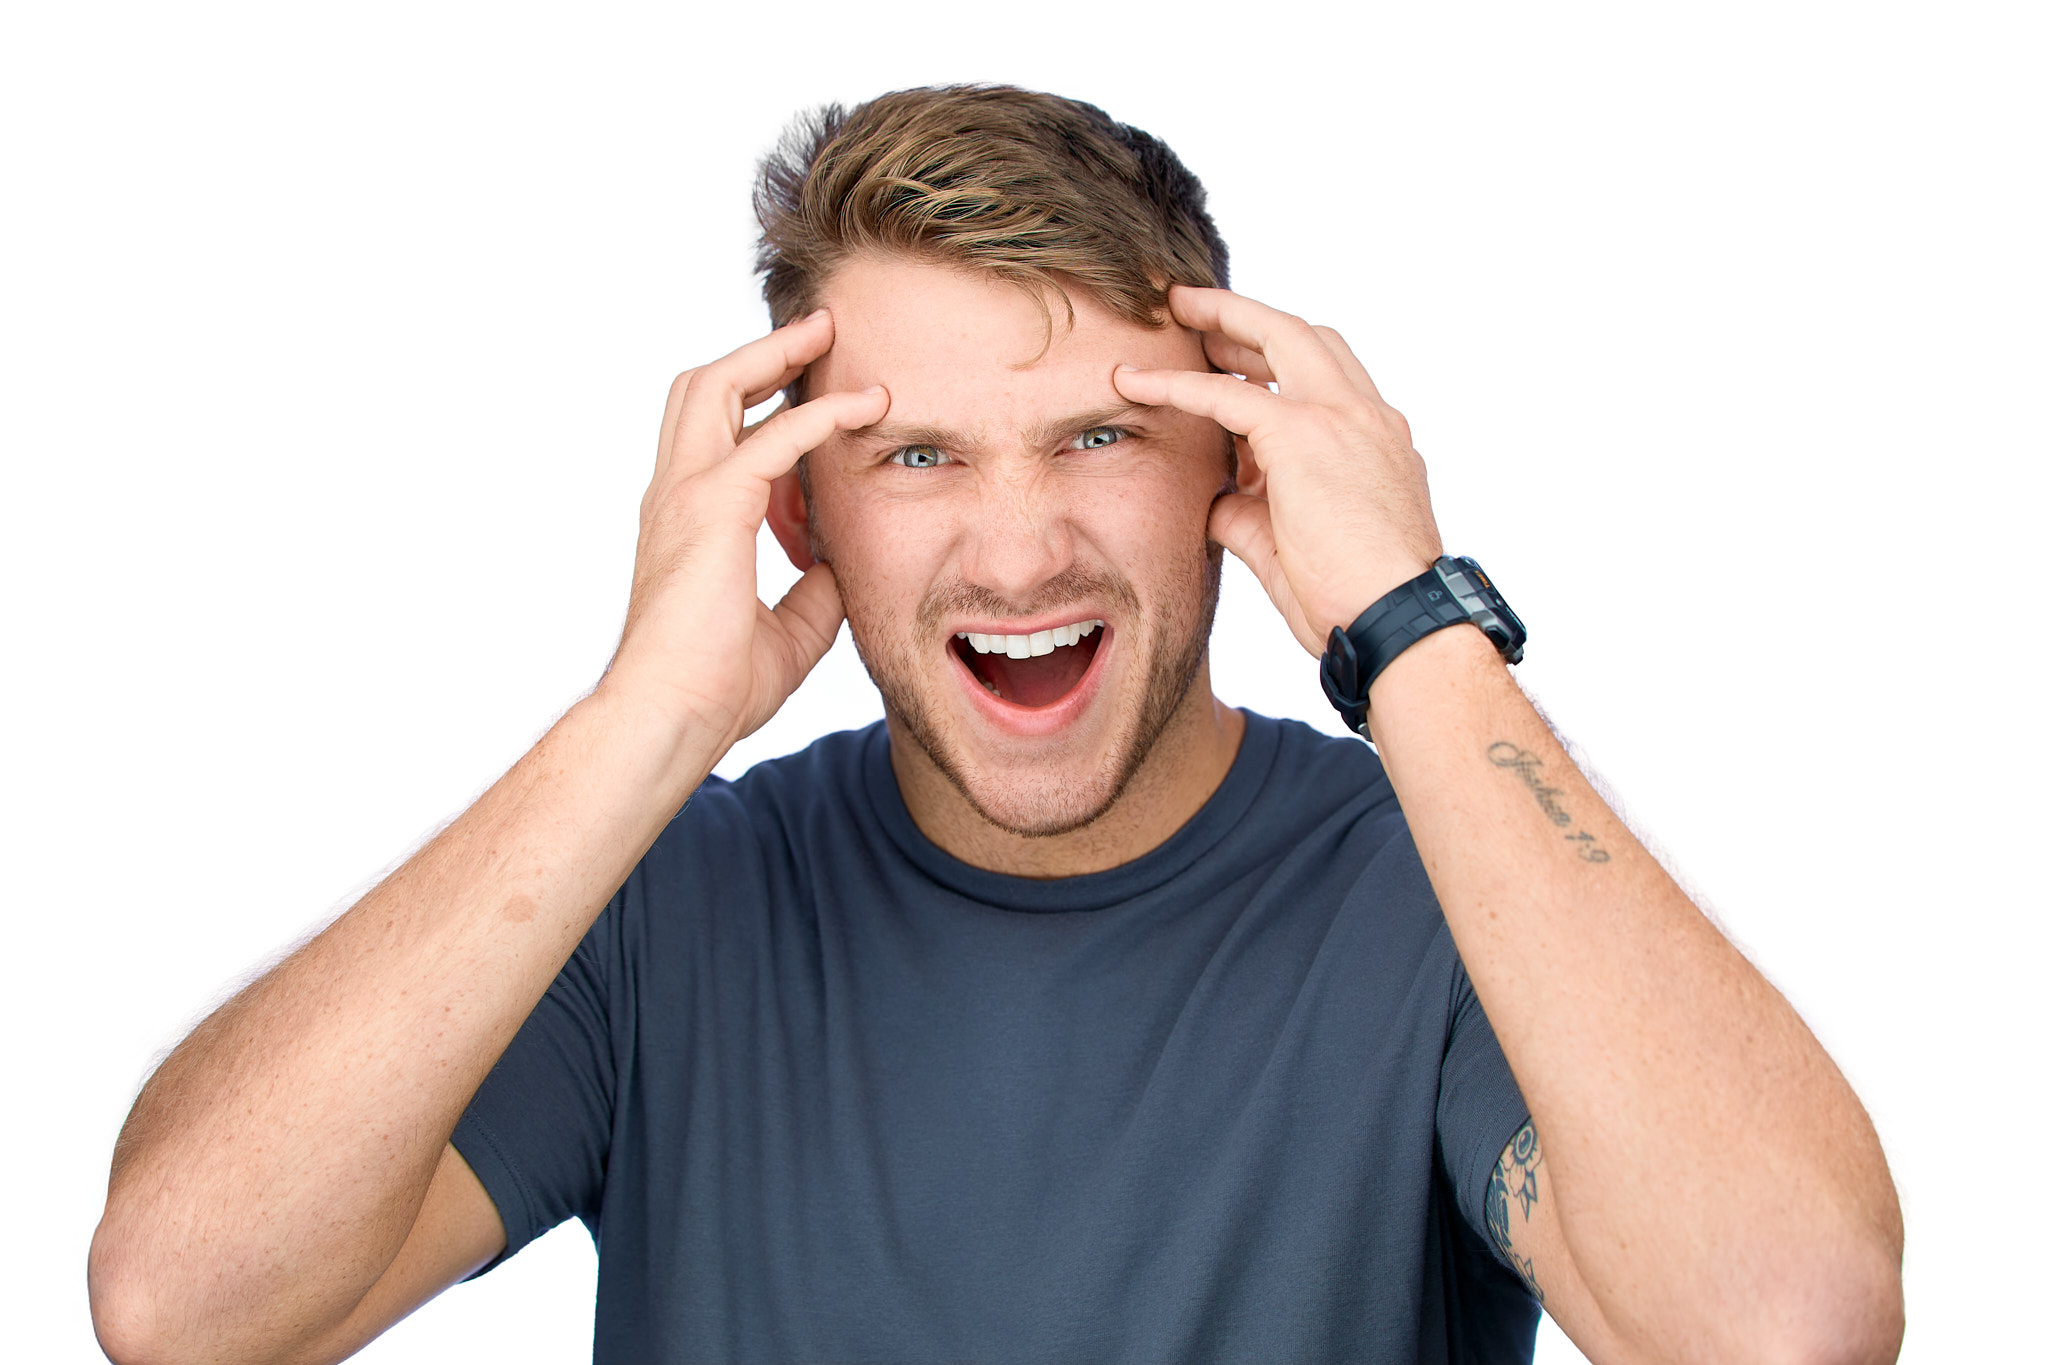
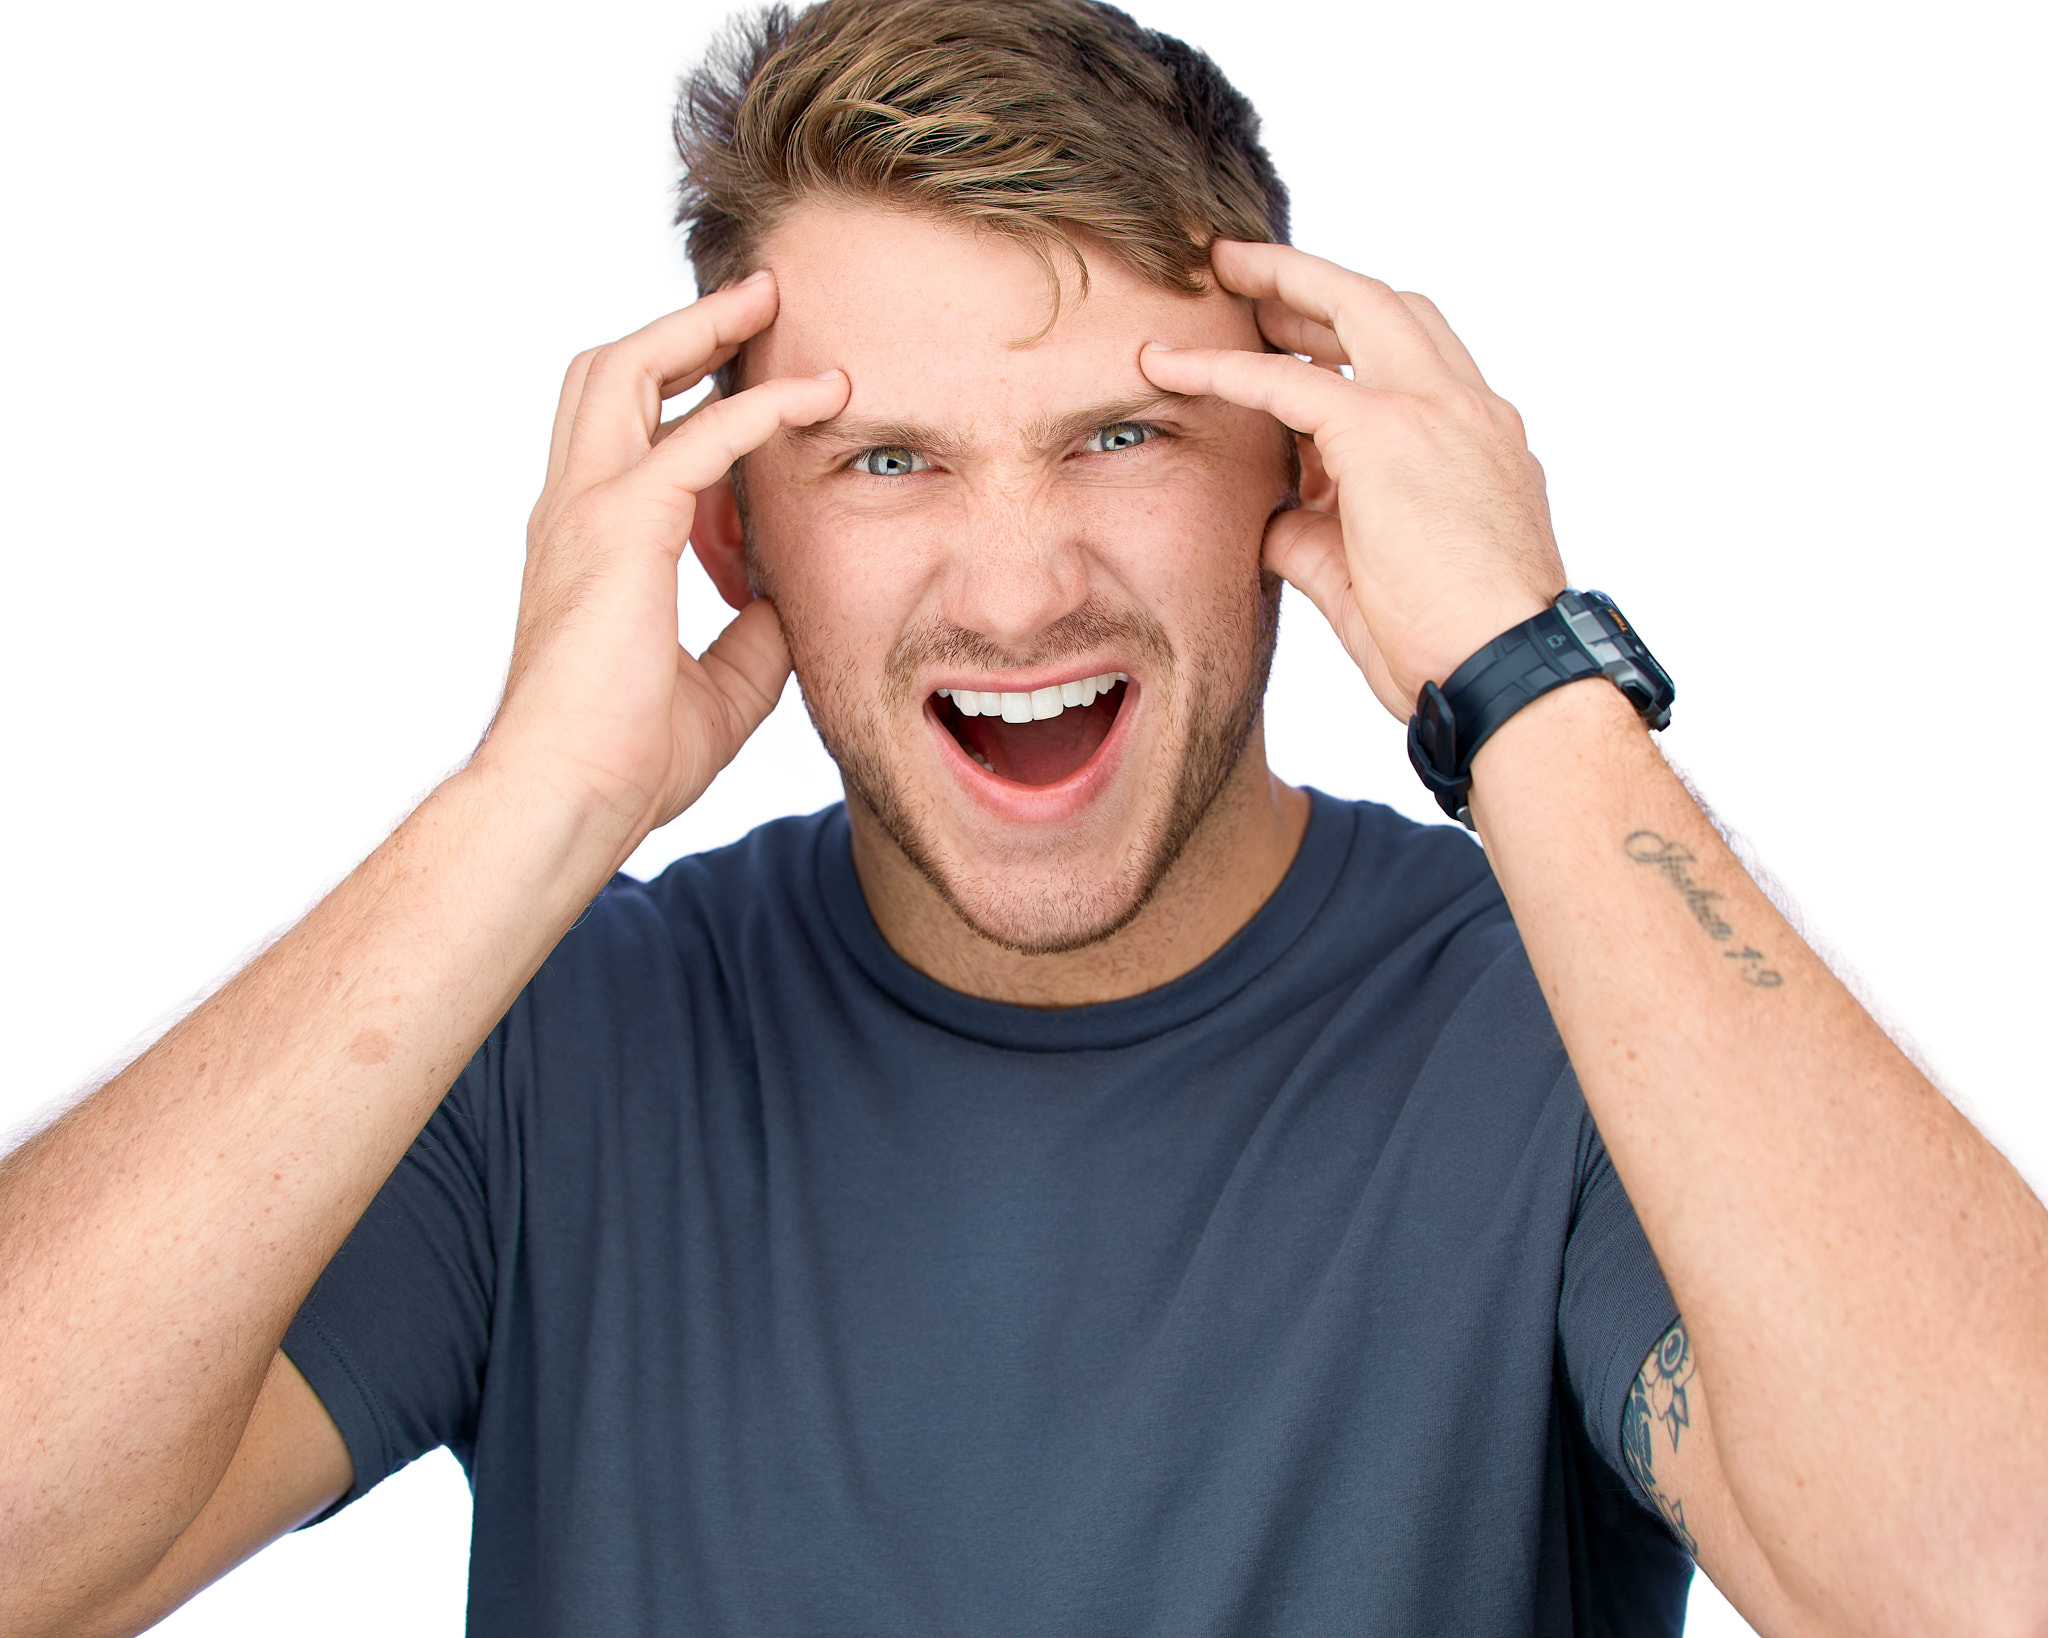
Tighter expressive photo
Claude-Session: https://claude.ai/code/session_019b5QpcFUBa2qm5SUwcAC42

diff --git a/index.html b/index.html
@@ -65,7 +65,7 @@ h1,h2,h3{font-family:"Oswald",sans-serif;text-transform:uppercase;line-height:.9
 .frame img{width:100%;height:100%;object-fit:cover}
 .frame.face img{object-position:45% 20%}
 .frame.med img{object-position:52% 20%}
-.frame.full img{object-position:50% 30%}
+.frame.full img{object-position:50% 20%}
 .frame .small-cond{font-size:clamp(15px,4.2vw,30px);line-height:1.02;word-break:break-word}
 .frame.typo{display:flex;flex-direction:column;align-items:center;justify-content:center;text-align:center;padding:14px 10px}
 .frame.typo.teal-bg{background:#eef3e6}
